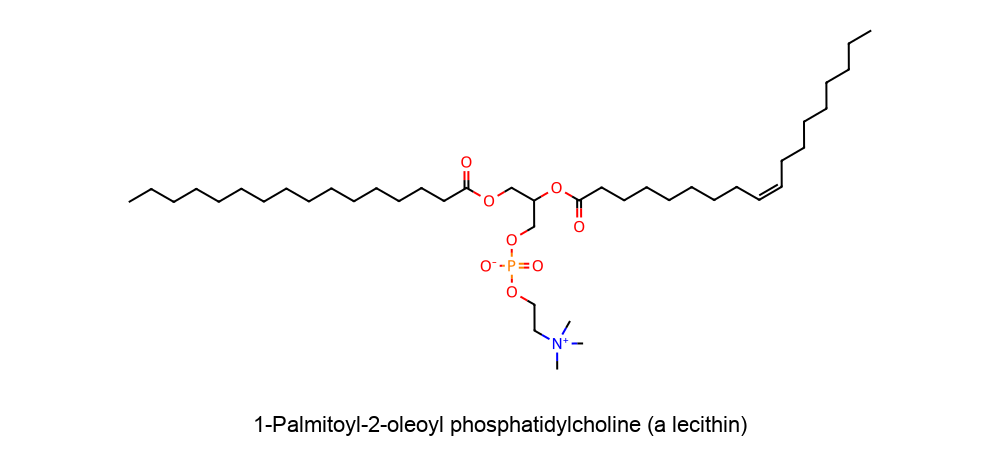
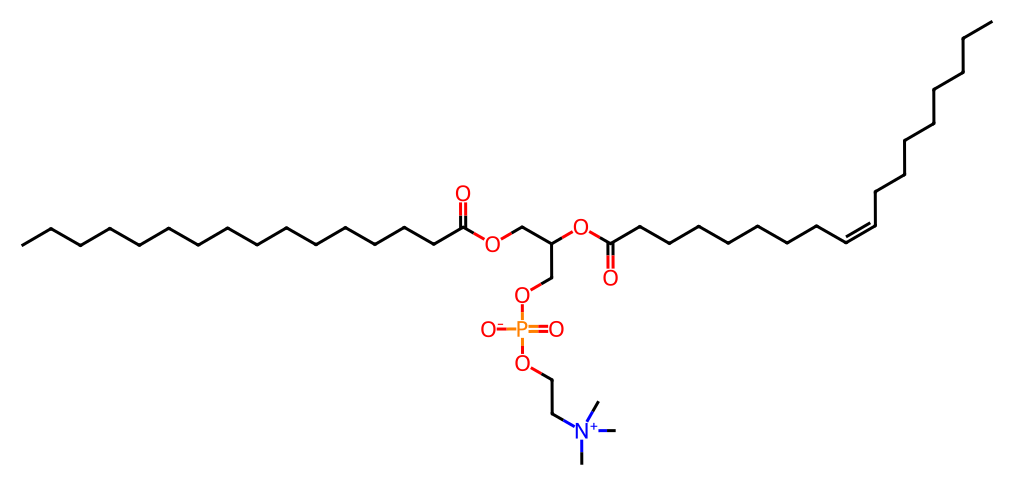
9.3 lipids: tighter crop, no built-in label (legible two per row in print)

diff --git a/figures/structures/INDEX.md b/figures/structures/INDEX.md
@@ -77,10 +77,10 @@ Every structure has a text description (use it as alt text) and, where needed, a
 | ch09-lipids | `figures/structures/ch09-lipids/tripalmitin.png` | Tripalmitin (a triglyceride) | C51H98O6 | Structure of tripalmitin, C51H98O6 (a triglyceride). |  |
 | ch09-lipids | `figures/structures/ch09-lipids/cholesterol.png` | Cholesterol | C27H46O | Structure of cholesterol, C27H46O. |  |
 | ch09-lipids | `figures/structures/ch09-lipids/glycerol.png` | Glycerol backbone | C3H8O3 | Structure of glycerol backbone, C3H8O3. |  |
-| ch09-lipids | `figures/structures/ch09-lipids/phosphatidylcholine-popc.png` | 1-Palmitoyl-2-oleoyl phosphatidylcholine (POPC, a lecithin) | C42H82NO8P | Line-angle structure of 1-palmitoyl-2-oleoyl phosphatidylcholine (a lecithin): a glycerol backbone with a saturated palmitate chain, an oleate chain with one cis double bond, and a phosphate (negative O) bonded to choline (N plus with three methyl groups). | Drawn 2026-11-11 (RDKit) for 9.3; replaces the source book's images, which no longer load. |
-| ch09-lipids | `figures/structures/ch09-lipids/phosphatidylethanolamine-pope.png` | 1-Palmitoyl-2-oleoyl phosphatidylethanolamine (POPE, a cephalin) | C39H76NO8P | Line-angle structure of 1-palmitoyl-2-oleoyl phosphatidylethanolamine (a cephalin): the same backbone and chains with the phosphate bonded to ethanolamine (NH3 plus). | Drawn 2026-11-11 (RDKit) for 9.3; replaces the source book's images, which no longer load. |
-| ch09-lipids | `figures/structures/ch09-lipids/phosphatidylserine-pops.png` | 1-Palmitoyl-2-oleoyl phosphatidylserine (POPS, a cephalin) | C40H75NO10P (−1) | Line-angle structure of 1-palmitoyl-2-oleoyl phosphatidylserine (a cephalin): the same backbone and chains with the phosphate bonded to serine (NH3 plus and a carboxylate). | Drawn 2026-11-11 (RDKit) for 9.3; replaces the source book's images, which no longer load. |
-| ch09-lipids | `figures/structures/ch09-lipids/phosphatidylinositol-popi.png` | 1-Palmitoyl-2-oleoyl phosphatidylinositol (POPI) | C43H80O13P (−1) | Line-angle structure of 1-palmitoyl-2-oleoyl phosphatidylinositol: the glycerol backbone with palmitate and oleate chains and a phosphate bonded to an inositol ring bearing five OH groups. | Drawn 2026-11-11 (RDKit) for 9.3; replaces the source book's images, which no longer load. |
+| ch09-lipids | `figures/structures/ch09-lipids/phosphatidylcholine-popc.png` | 1-Palmitoyl-2-oleoyl phosphatidylcholine (POPC, a lecithin) | C42H82NO8P | Line-angle structure of 1-palmitoyl-2-oleoyl phosphatidylcholine (a lecithin): a glycerol backbone with a saturated palmitate chain, an oleate chain with one cis double bond, and a phosphate (negative O) bonded to choline (N plus with three methyl groups). | Drawn 2026-11-11 (RDKit) for 9.3, cropped tight with no built-in label so it reads at half-page width in print; replaces the source book's images, which no longer loaded. |
+| ch09-lipids | `figures/structures/ch09-lipids/phosphatidylethanolamine-pope.png` | 1-Palmitoyl-2-oleoyl phosphatidylethanolamine (POPE, a cephalin) | C39H76NO8P | Line-angle structure of 1-palmitoyl-2-oleoyl phosphatidylethanolamine (a cephalin): the same backbone and chains with the phosphate bonded to ethanolamine (NH3 plus). | Drawn 2026-11-11 (RDKit) for 9.3, cropped tight with no built-in label so it reads at half-page width in print; replaces the source book's images, which no longer loaded. |
+| ch09-lipids | `figures/structures/ch09-lipids/phosphatidylserine-pops.png` | 1-Palmitoyl-2-oleoyl phosphatidylserine (POPS, a cephalin) | C40H75NO10P (−1) | Line-angle structure of 1-palmitoyl-2-oleoyl phosphatidylserine (a cephalin): the same backbone and chains with the phosphate bonded to serine (NH3 plus and a carboxylate). | Drawn 2026-11-11 (RDKit) for 9.3, cropped tight with no built-in label so it reads at half-page width in print; replaces the source book's images, which no longer loaded. |
+| ch09-lipids | `figures/structures/ch09-lipids/phosphatidylinositol-popi.png` | 1-Palmitoyl-2-oleoyl phosphatidylinositol (POPI) | C43H80O13P (−1) | Line-angle structure of 1-palmitoyl-2-oleoyl phosphatidylinositol: the glycerol backbone with palmitate and oleate chains and a phosphate bonded to an inositol ring bearing five OH groups. | Drawn 2026-11-11 (RDKit) for 9.3, cropped tight with no built-in label so it reads at half-page width in print; replaces the source book's images, which no longer loaded. |
 | ch10-amino-acids-proteins | `figures/structures/ch10-amino-acids-proteins/glycine.png` | Glycine | C2H5NO2 | Structure of glycine, C2H5NO2. |  |
 | ch10-amino-acids-proteins | `figures/structures/ch10-amino-acids-proteins/alanine.png` | L-Alanine | C3H7NO2 | Structure of L-alanine, C3H7NO2. |  |
 | ch10-amino-acids-proteins | `figures/structures/ch10-amino-acids-proteins/serine.png` | L-Serine (polar) | C3H7NO3 | Structure of L-serine, C3H7NO3 (polar). |  |
